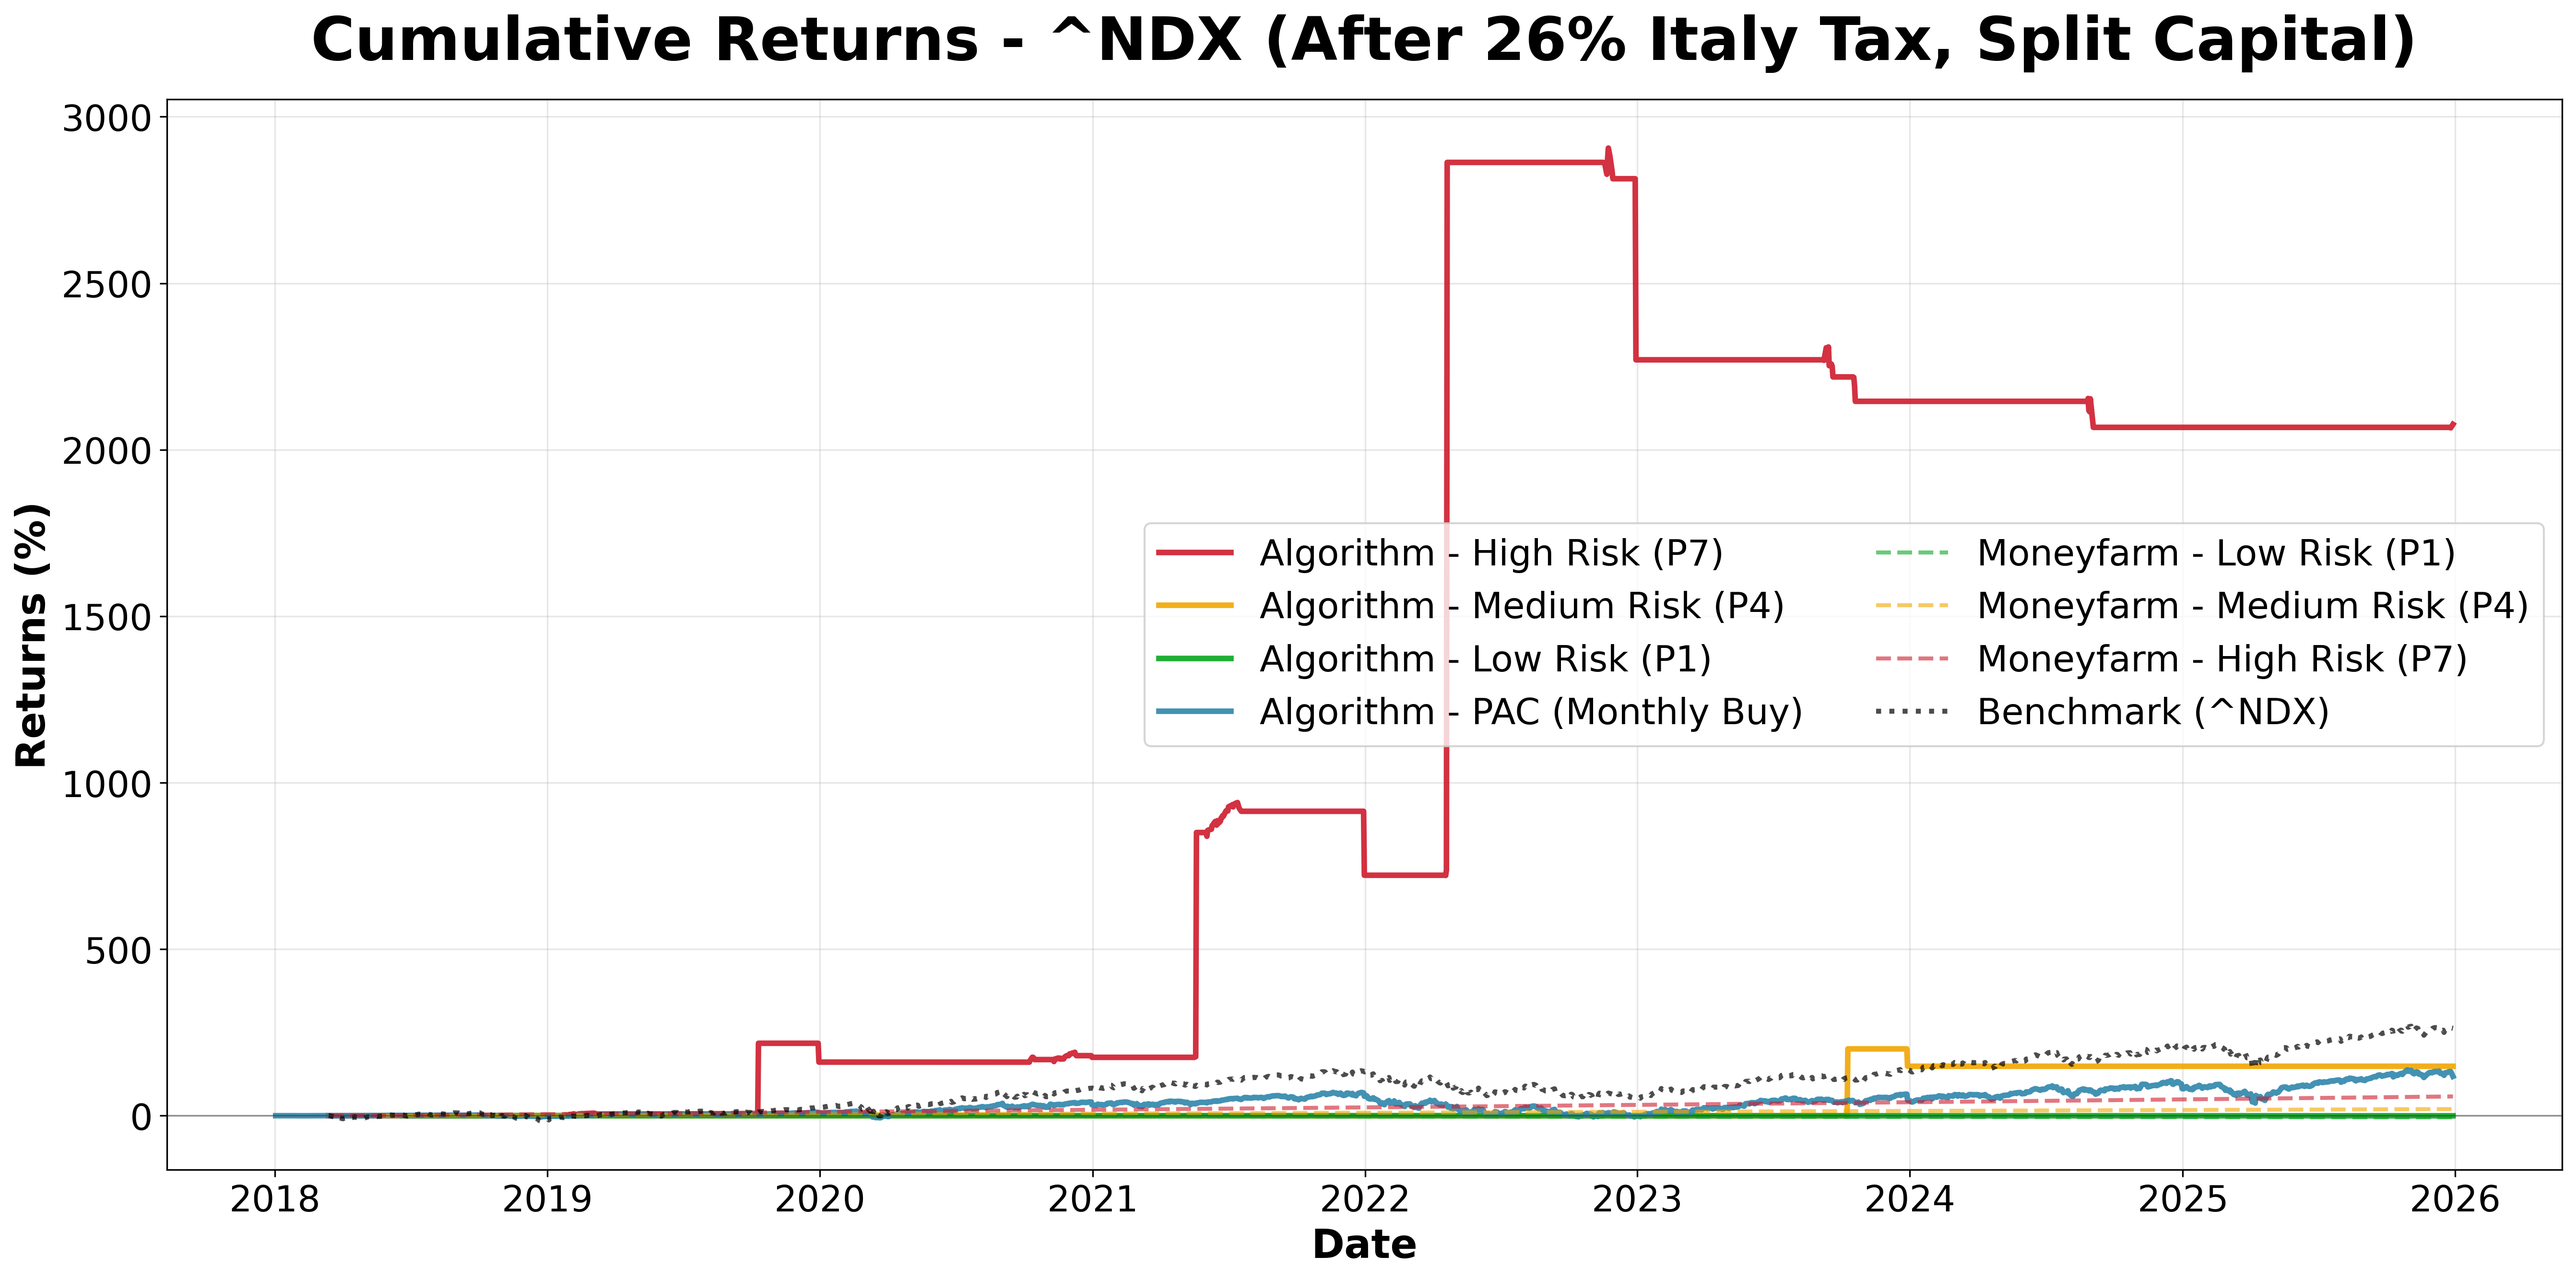
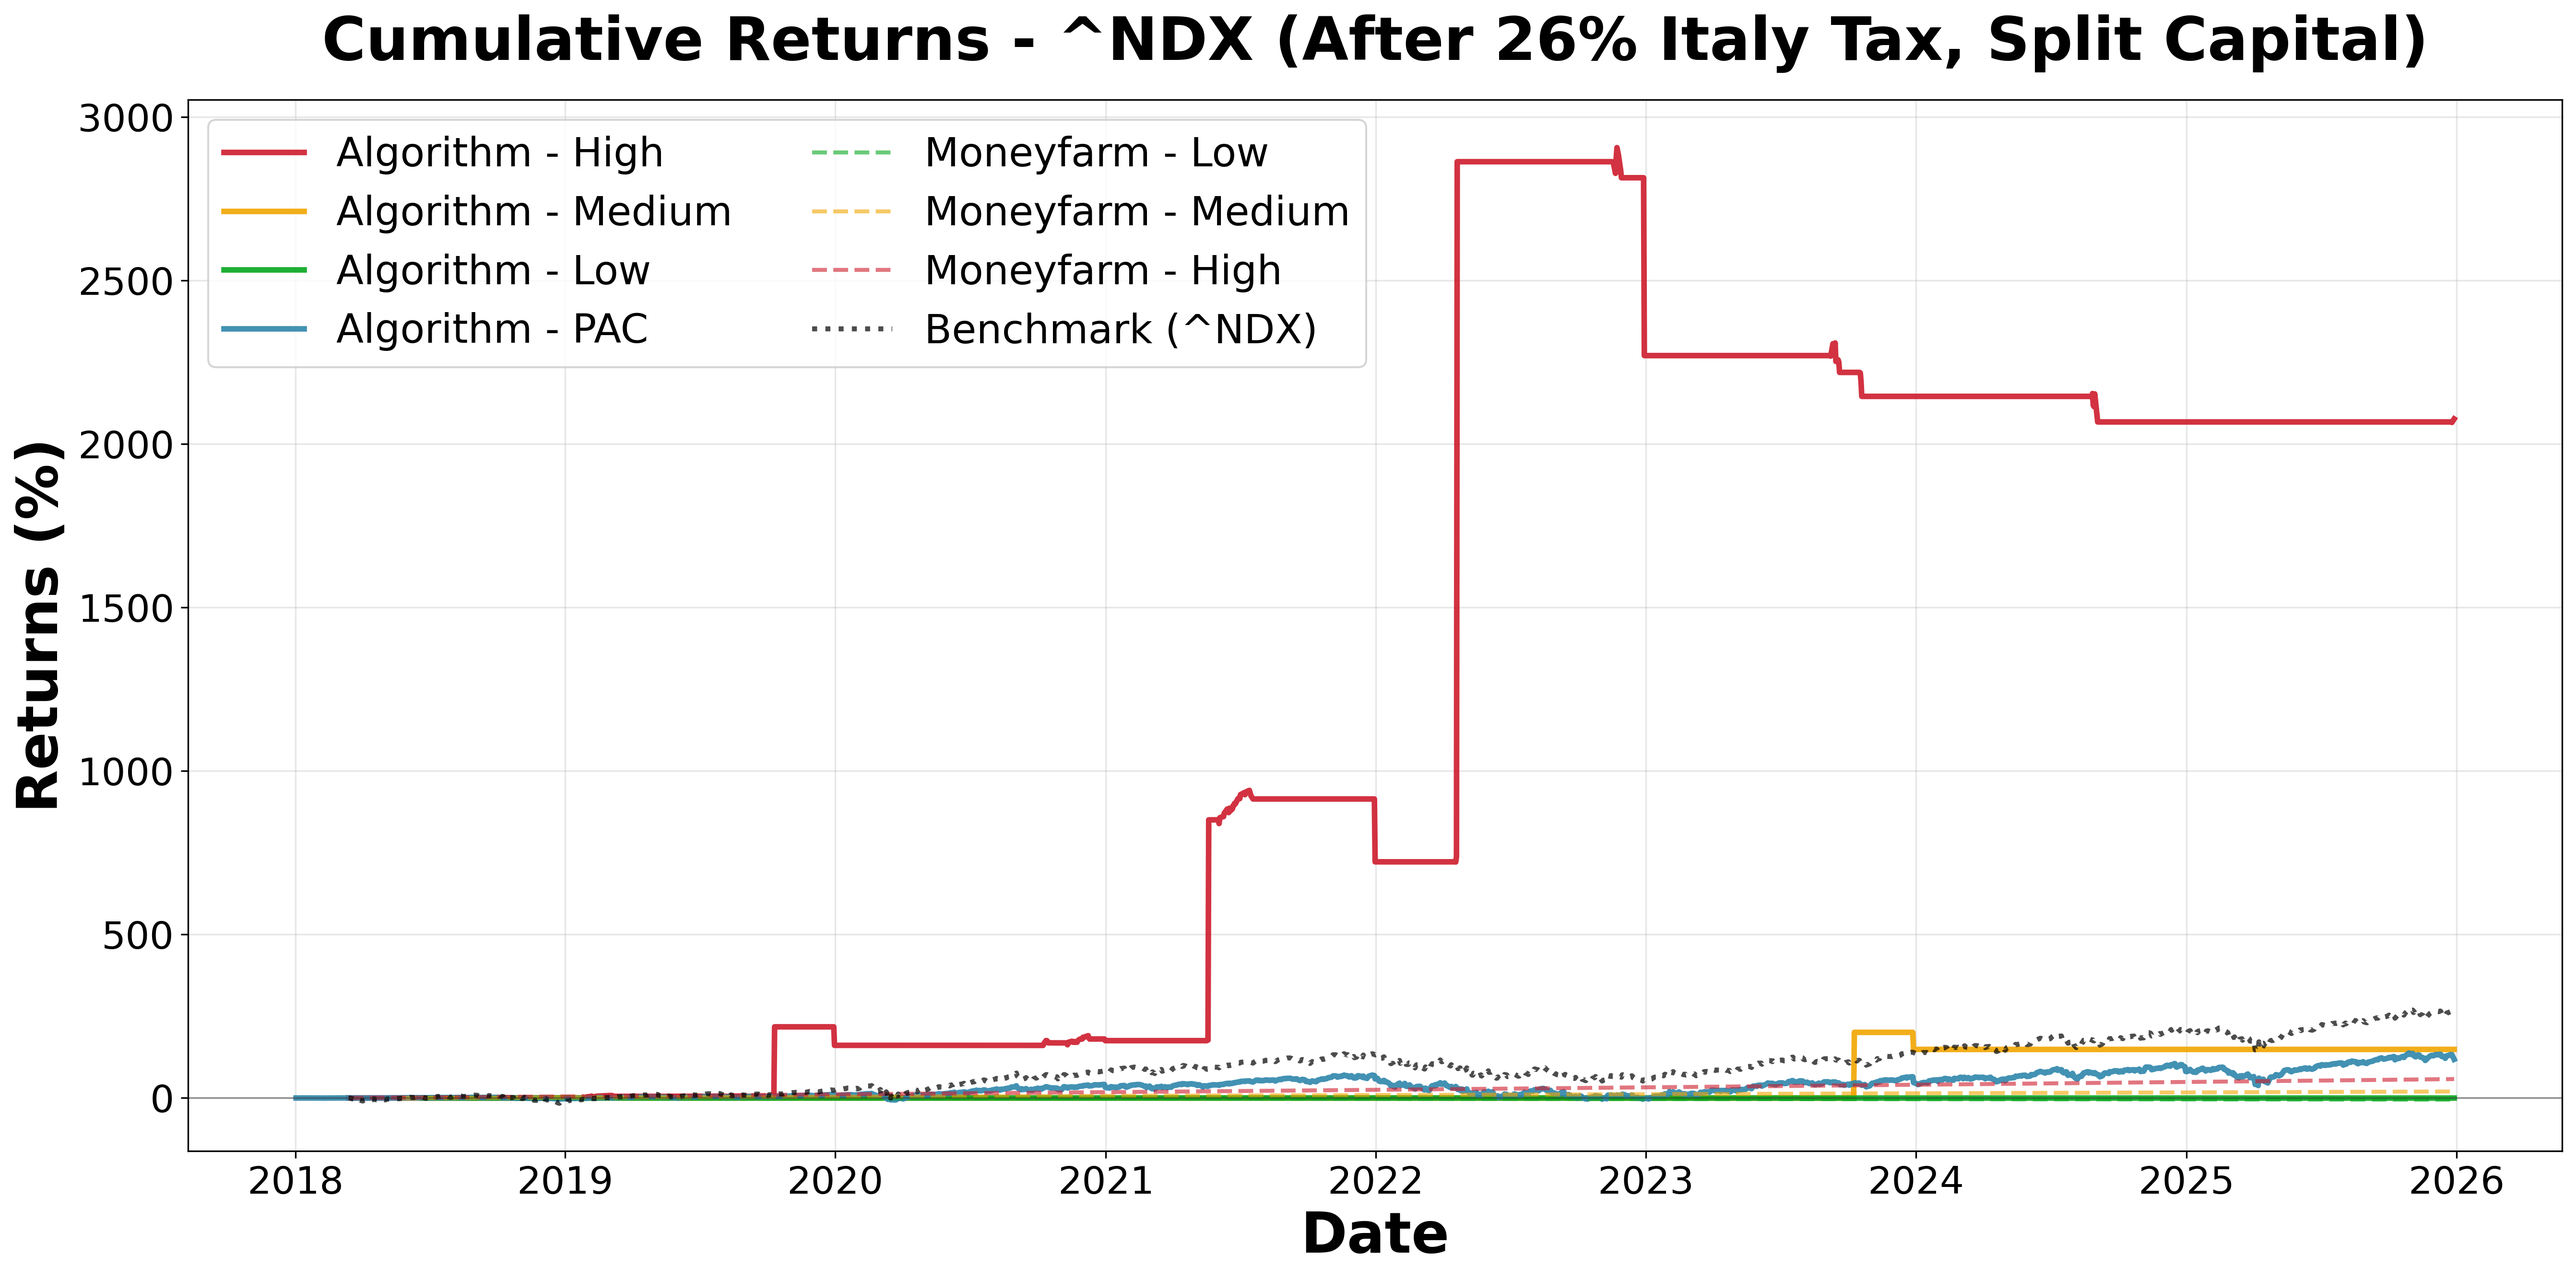
hotfix: various graph formatting fixes

diff --git a/account_data.py b/account_data.py
@@ -46,18 +46,18 @@ ROBO_HIGH_RISK  = 1.189 #Total returns from 01-01-2018, From MoneyFarm website (
 FONT_CONFIG = {
     # Main elements
     'title': 30,           # Graph titles
-    'suptitle': 30,        # Figure super titles
-    'axis_label': 20,      # X and Y axis labels
+    'suptitle': 28,        # Figure super titles
+    'axis_label': 28,      # X and Y axis labels
     
     # Secondary elements  
-    'tick_label': 18,      # Axis tick numbers
-    'legend': 18,          # Legend text
-    'annotation': 15,      # Annotations and notes
+    'tick_label': 19,      # Axis tick numbers
+    'legend': 20,          # Legend text
+    'annotation': 19,      # Annotations and notes
     
     # Data labels
     'bar_label': 15,       # Numbers on bar charts
-    'table_text': 15,      # Table cells
-    'table_header': 15,    # Table headers
+    'table_text': 19,      # Table cells
+    'table_header': 19,    # Table headers
 }
 
 COLOR_CONFIG = {
@@ -78,8 +78,8 @@ COLOR_CONFIG = {
 
 #Profile labels for graphs
 PROFILE_LABELS = {
-    'high': 'High Risk (P7)',
-    'medium': 'Medium Risk (P4)',
-    'low': 'Low Risk (P1)',
-    'pac': 'PAC (Monthly Buy)'
+    'high': 'High',
+    'medium': 'Medium',
+    'low': 'Low',
+    'pac': 'PAC'
 }
